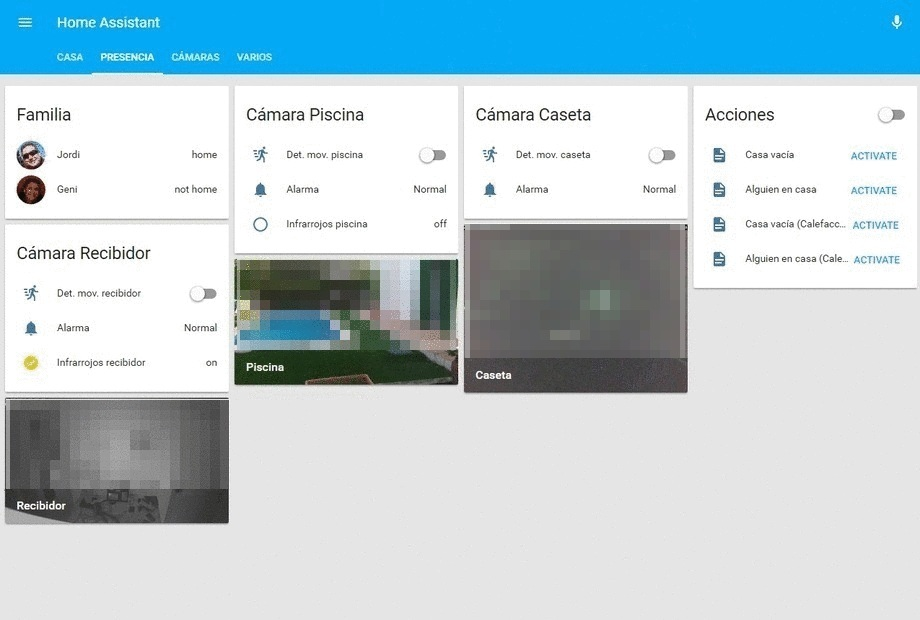
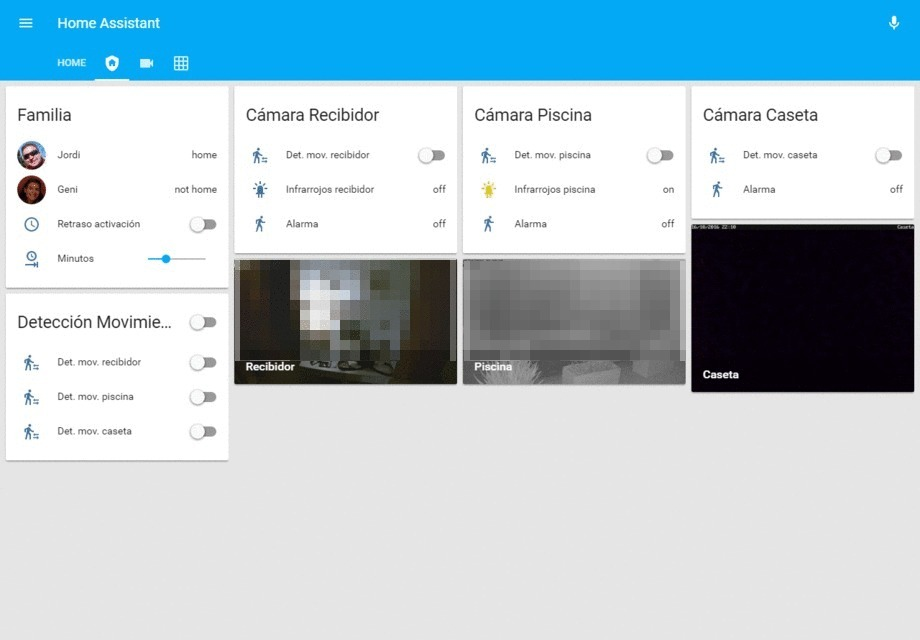
Screenshot update

Changed region(s): [[0.0, 0.0306, 1.0, 0.8581], [0.1826, 0.2145, 0.2435, 0.3065], [0.9739, 0.0306, 1.0, 0.0613]]

diff --git a/README.md b/README.md
@@ -1,11 +1,11 @@
 # home-assistant-config
 My Home-Assistant config (https://home-assistant.io)
 
-Screenshot Casa
-![Casa](https://raw.githubusercontent.com/hokus15/home-assistant-config/master/hass-config1.jpg)
+## Screenshot Home
+![Home](https://raw.githubusercontent.com/hokus15/home-assistant-config/master/hass-config1.jpg)
 
-Screenshot Presencia
-![Presencia](https://raw.githubusercontent.com/hokus15/home-assistant-config/master/hass-config2.jpg)
+## Screenshot Seguridad
+![Seguridad](https://raw.githubusercontent.com/hokus15/home-assistant-config/master/hass-config2.jpg)
 
-Screenshot Varios
+## Screenshot Varios
 ![Varios](https://raw.githubusercontent.com/hokus15/home-assistant-config/master/hass-config3.jpg)
